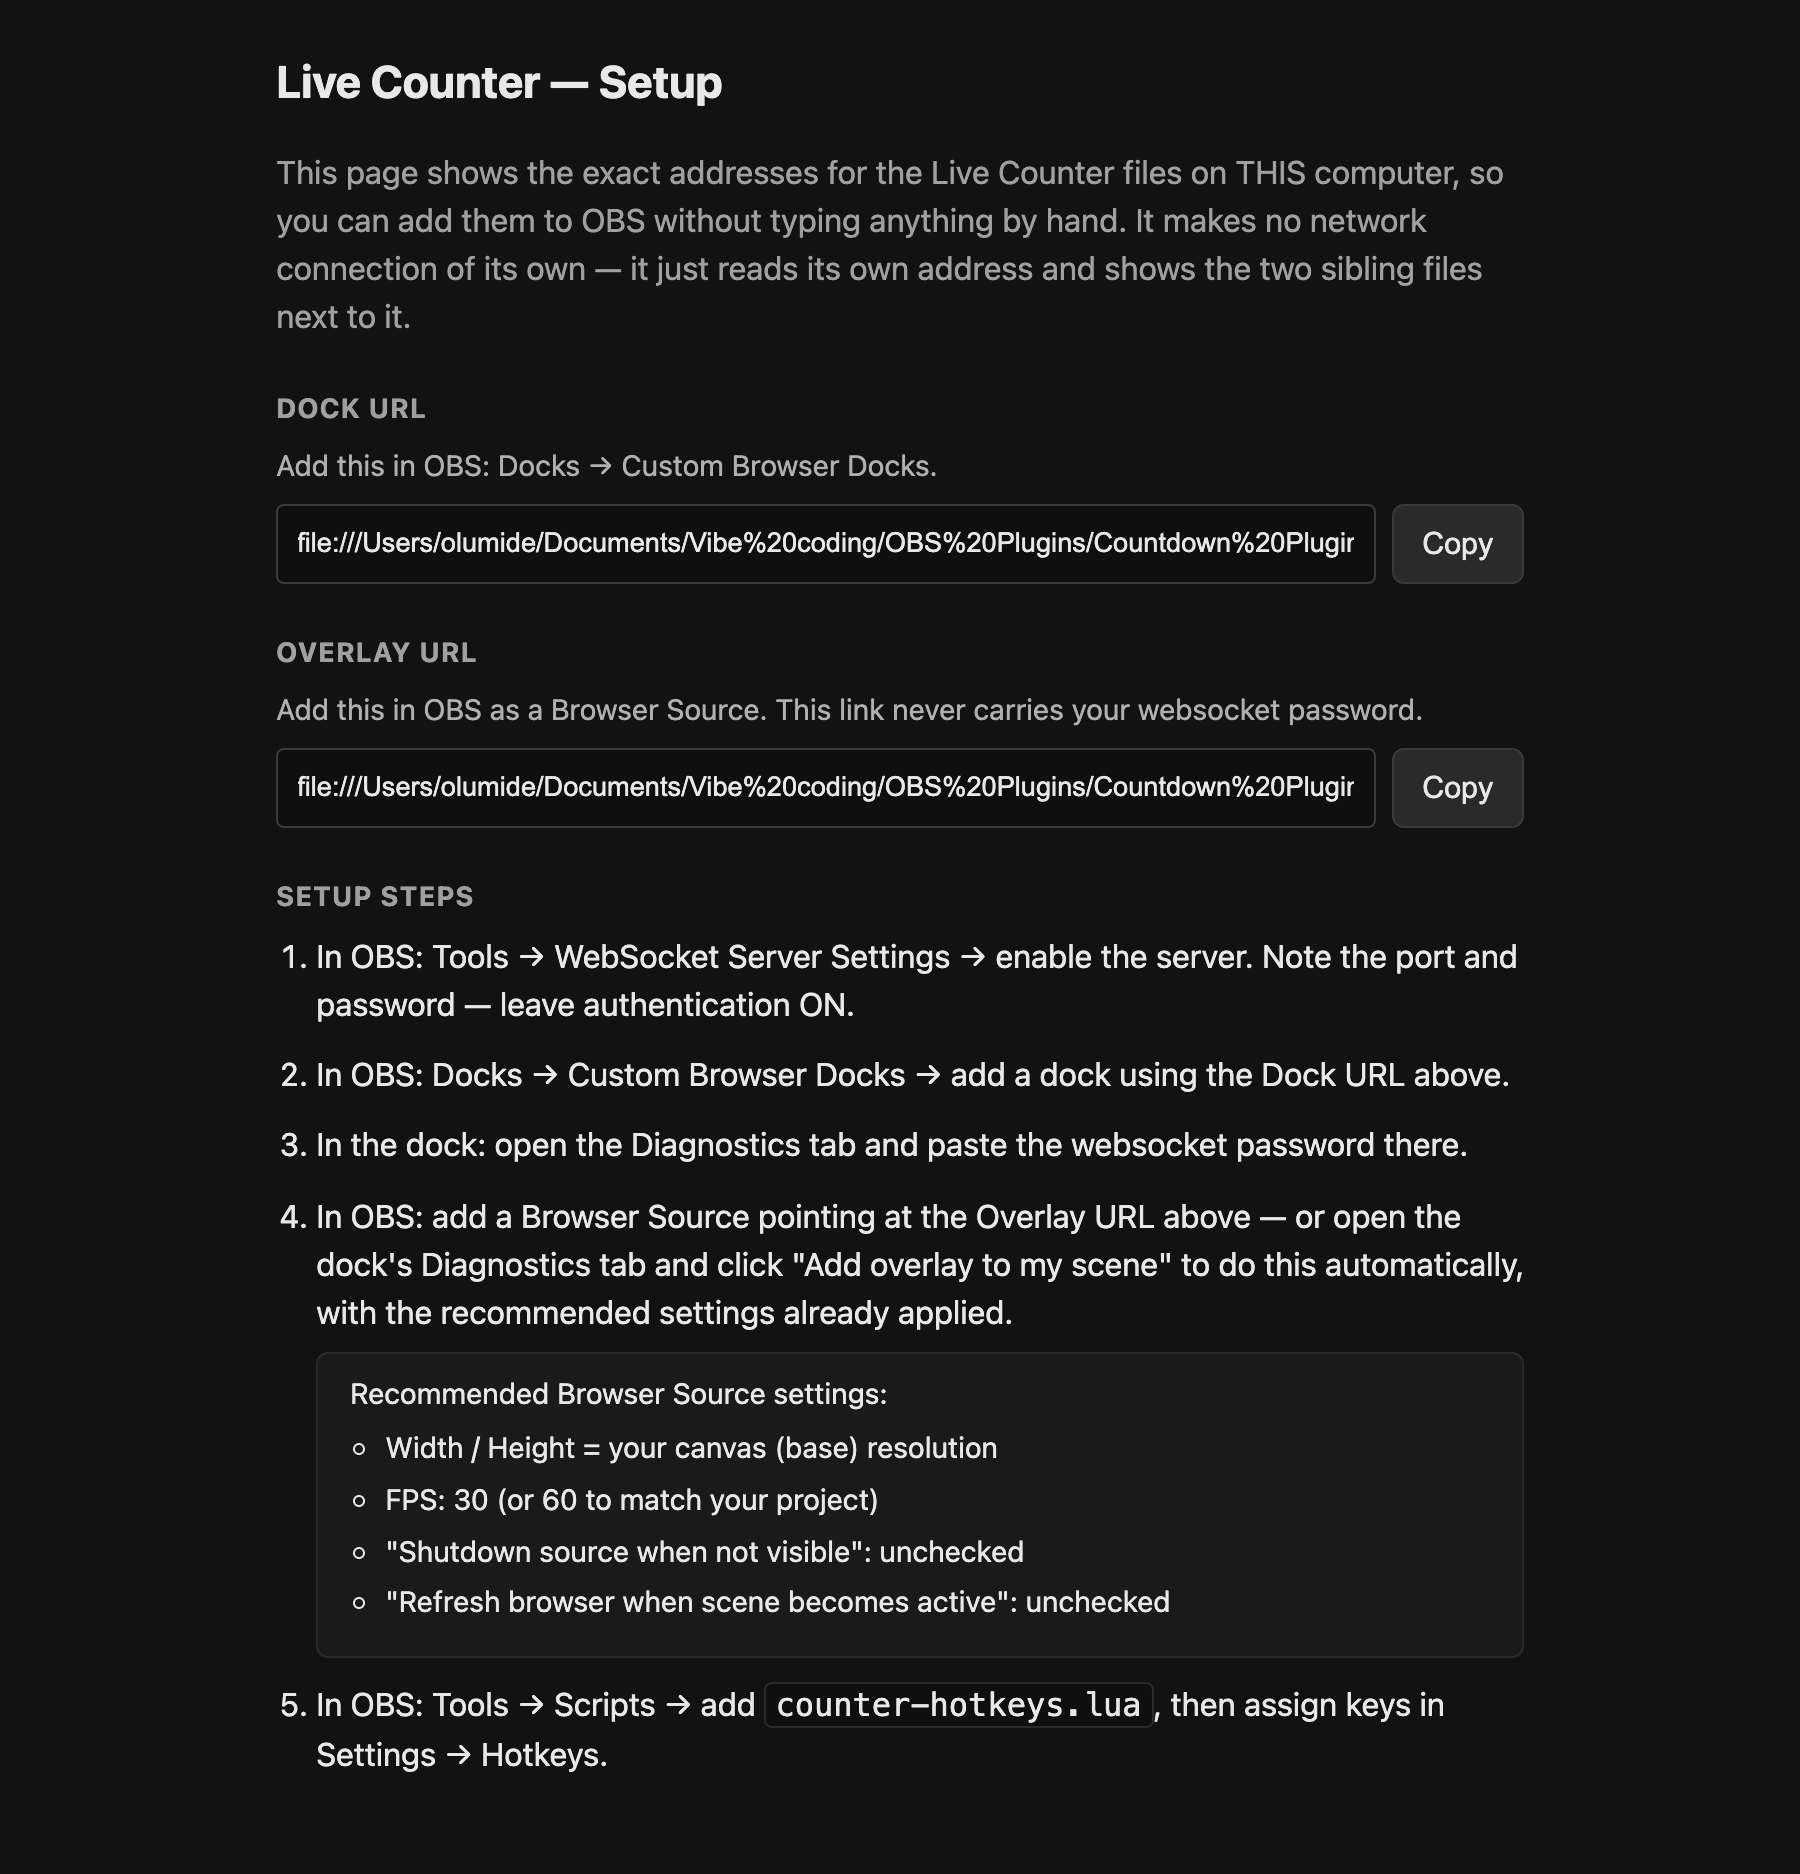
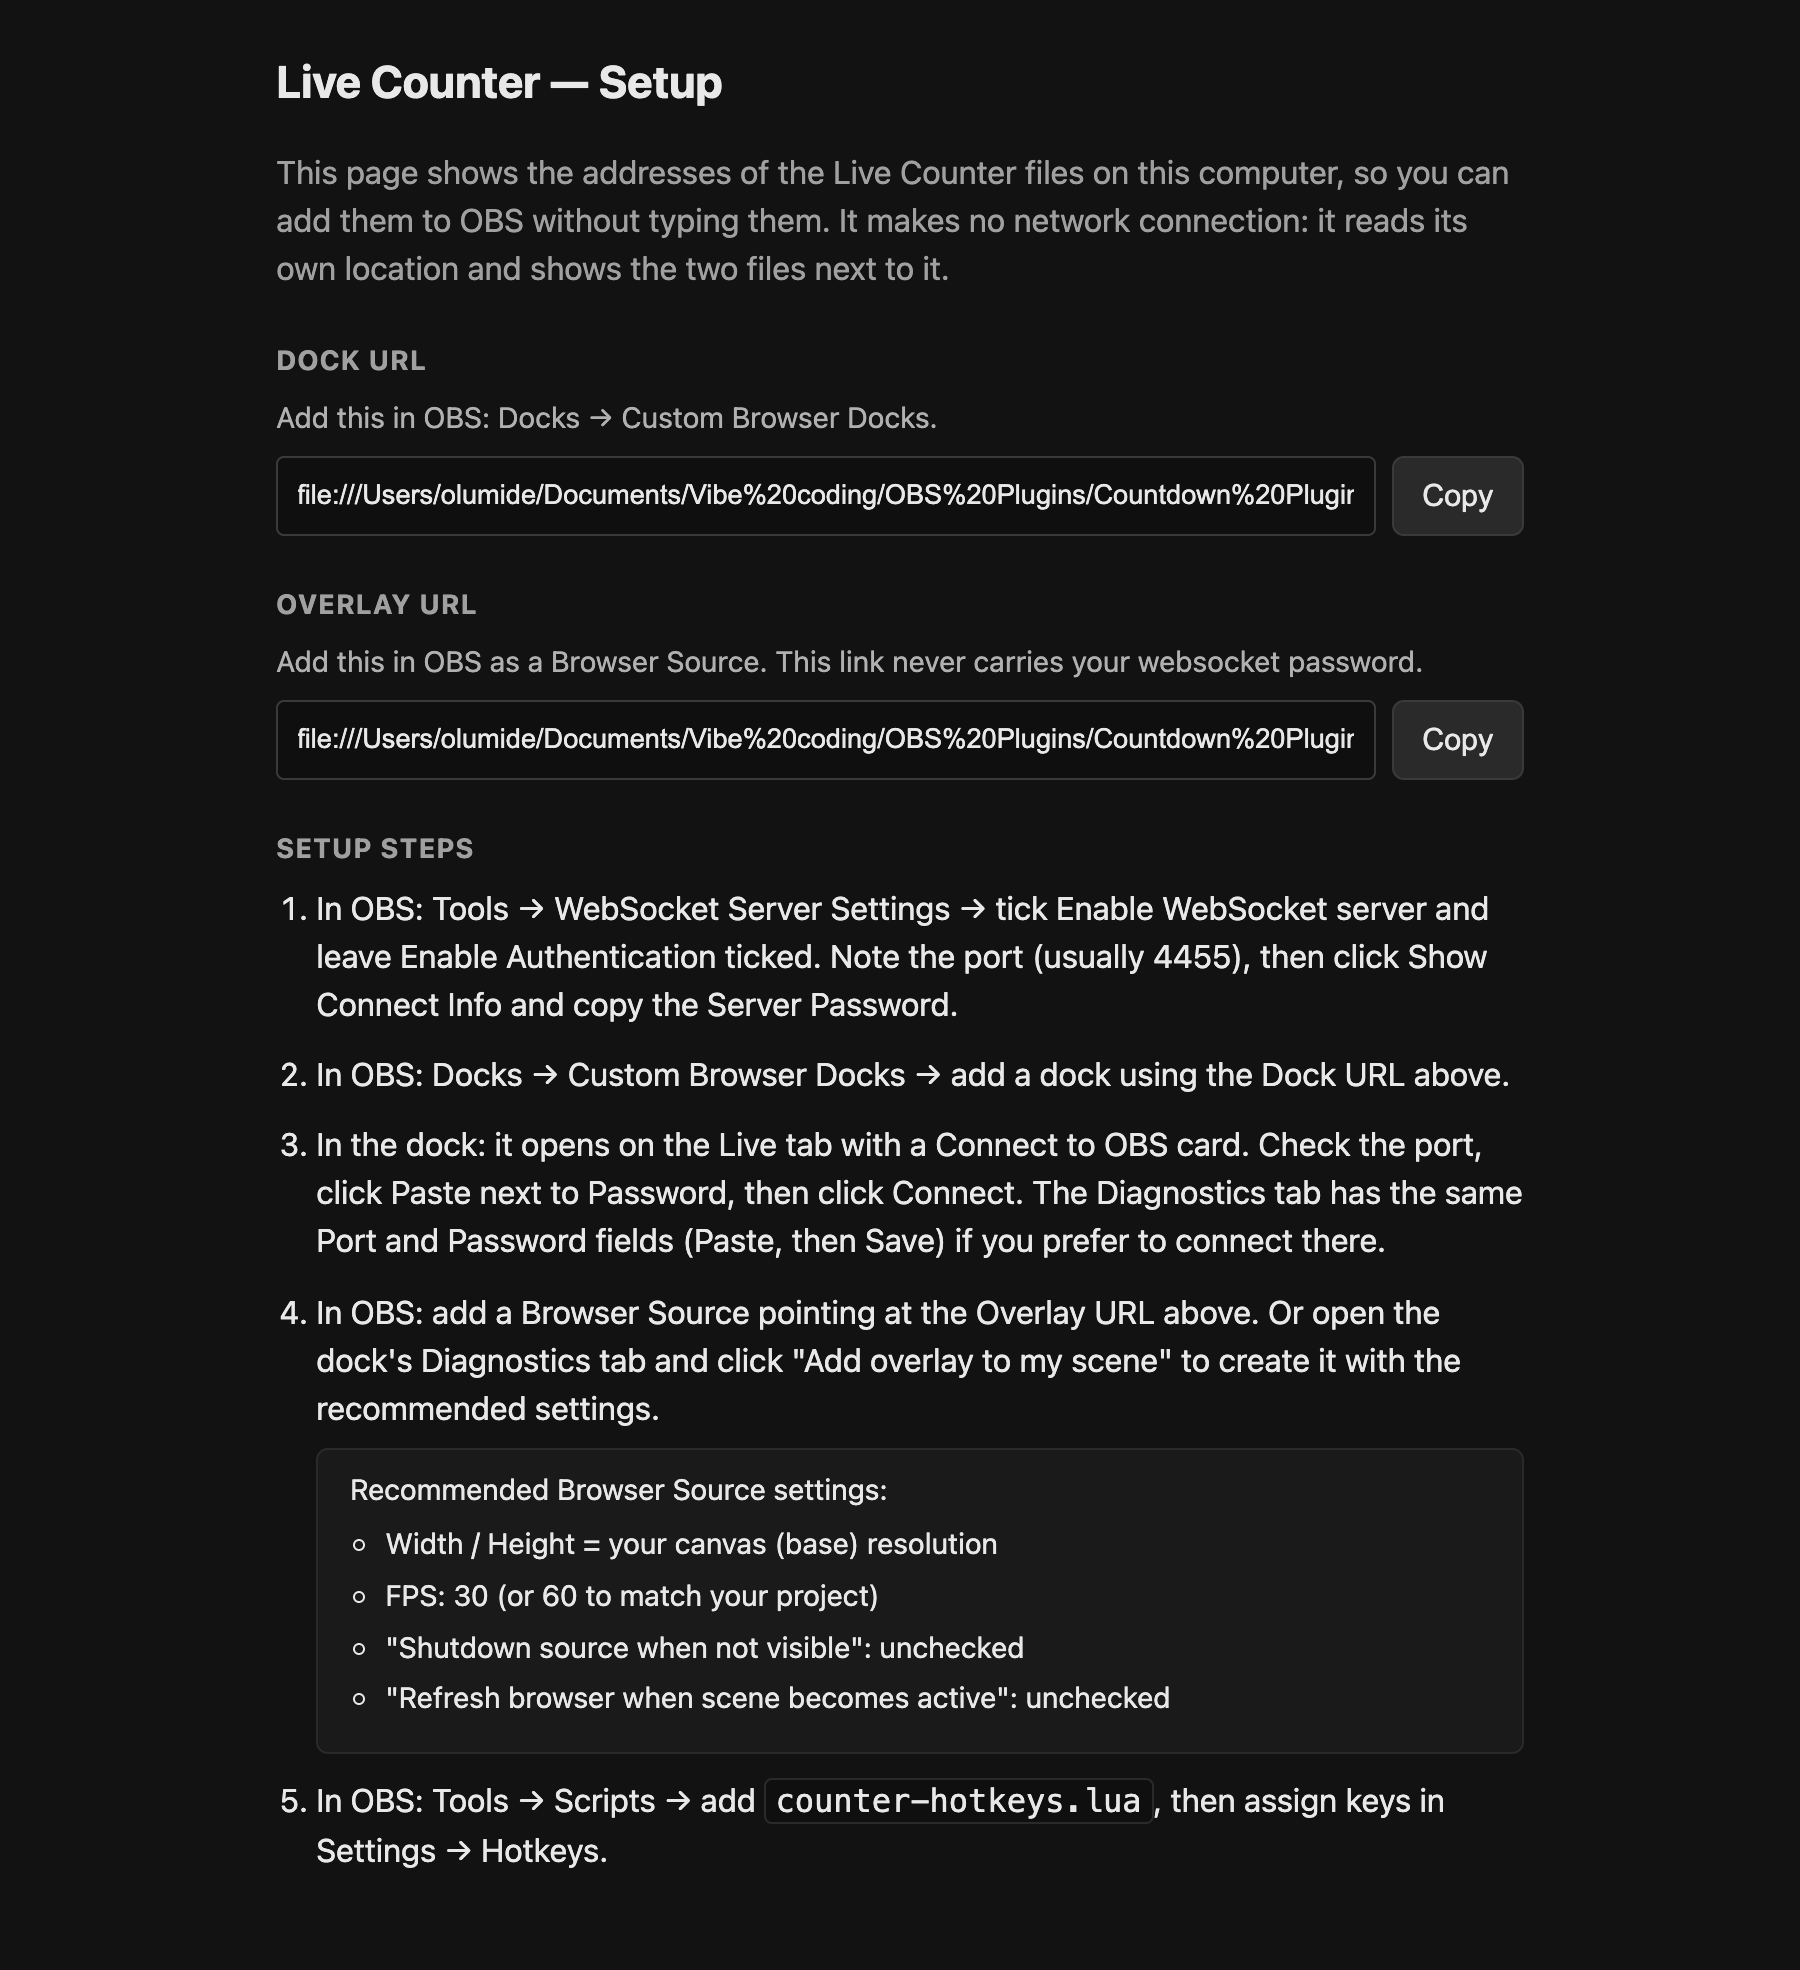
docs(guide): refresh panel screenshots after the fix wave; add reusable capture script
- docs/install-guide/img: dock/overlay/setup-page shots re-taken against
  the 0.3.0 build (mode toggle now 'Switch to Automatic', Transport text
  mentions keyboard shortcuts, Diagnostics shows Version 0.3.0); image
  width/height attributes updated to the real sizes.
- scripts/guide-shots/: Playwright spec + config that re-takes those shots
  against dist/ and the mock obs-websocket server (npm run shots:guide;
  PW_EXECUTABLE overrides the browser binary).

Changed region(s): [[0.1556, 0.0309, 0.84, 0.8666], [0.1556, 0.8975, 0.8089, 0.9594], [0.7778, 0.2476, 0.84, 0.3095]]

diff --git a/scripts/guide-shots/capture.spec.ts b/scripts/guide-shots/capture.spec.ts
@@ -1,0 +1,118 @@
+// Re-takes the plugin-side screenshots for docs/install-guide/img against the
+// built dist/ pages and the test-only mock obs-websocket server. The OBS
+// dialog screenshots in that folder are real captures and are not touched.
+//
+// Run after `npm run build`:
+//   npx playwright test -c scripts/guide-shots/playwright.config.ts
+import { test } from '@playwright/test';
+import { pathToFileURL, fileURLToPath } from 'node:url';
+import path from 'node:path';
+import { mkdirSync } from 'node:fs';
+import { startMockObs } from '../../tests/helpers/mock-obsws.js';
+
+const here = path.dirname(fileURLToPath(import.meta.url));
+const ROOT = path.resolve(here, '../..');
+const OUT = path.join(ROOT, 'docs/install-guide/img');
+const DOCK = pathToFileURL(path.join(ROOT, 'dist/dock.html')).href;
+const OVERLAY = pathToFileURL(path.join(ROOT, 'dist/overlay.html')).href;
+const SETUP = pathToFileURL(path.join(ROOT, 'dist/setup.html')).href;
+
+const DOCK_VIEWPORT = { width: 420, height: 840 };
+const CANVAS = { width: 1920, height: 1080 };
+
+test('capture guide screenshots', async ({ browser }) => {
+  mkdirSync(OUT, { recursive: true });
+
+  // setup.html in an ordinary browser window.
+  const setupCtx = await browser.newContext({ viewport: { width: 900, height: 760 }, deviceScaleFactor: 2, colorScheme: 'dark' });
+  const setupPage = await setupCtx.newPage();
+  await setupPage.goto(SETUP);
+  await setupPage.waitForTimeout(400);
+  await setupPage.screenshot({ path: path.join(OUT, 'plugin-setup-page.png'), fullPage: true });
+  await setupCtx.close();
+
+  const mock = await startMockObs({ programScene: 'Sunday Service', scenes: ['Sunday Service'] });
+  try {
+    const dockCtx = await browser.newContext({ viewport: DOCK_VIEWPORT, deviceScaleFactor: 2, colorScheme: 'dark' });
+    const dock = await dockCtx.newPage();
+    const overlayCtx = await browser.newContext({ viewport: CANVAS, deviceScaleFactor: 1, colorScheme: 'dark' });
+    const overlay = await overlayCtx.newPage();
+
+    await overlay.goto(`${OVERLAY}?port=${mock.port}`);
+    await dock.goto(`${DOCK}?wsPort=${mock.port}&devhook=1`);
+    await dock.waitForFunction(() => Boolean((window as unknown as { __lc?: unknown }).__lc));
+    await dock.waitForTimeout(1500);
+
+    // Diagnostics: every checklist row green (overlay page is connected, and a
+    // hotkey-bridge hello is injected), typical port shown, password filled.
+    mock.injectEvent('InputSettingsChanged', {
+      inputName: 'LiveCounterCommandChannel',
+      inputSettings: { text: JSON.stringify({ app: 'live-counter', v: 1, cmd: 'hello', nonce: 'shot-1' }) },
+    });
+    await dock.getByTestId('tab-diagnostics').click();
+    await dock.waitForTimeout(2500);
+    const password = dock.getByTestId('settings-password');
+    if (await password.count()) await password.fill('example-password');
+    const port = dock.getByTestId('settings-port');
+    if (await port.count()) await port.fill('4455');
+    await dock.screenshot({ path: path.join(OUT, 'dock-diagnostics-connected.png'), fullPage: true });
+
+    // "Add overlay to my scene" and its confirmation text.
+    const addOverlay = dock.getByTestId('add-overlay');
+    if (await addOverlay.count()) {
+      await addOverlay.click();
+      await dock.getByTestId('add-overlay-confirm').waitFor({ timeout: 8000 }).catch(() => {});
+      await dock.waitForTimeout(600);
+      await dock.screenshot({ path: path.join(OUT, 'dock-add-overlay-confirm.png'), fullPage: true });
+    }
+
+    // Setup tab with a preset title, then save it so Presets has a row.
+    await dock.getByTestId('tab-setup').click();
+    await dock.waitForTimeout(700);
+    const title = dock.getByTestId('setup-title');
+    if (await title.count()) await title.fill('Sunday service');
+    await dock.screenshot({ path: path.join(OUT, 'dock-setup-tab.png'), fullPage: true });
+    const save = dock.getByTestId('setup-save');
+    if (await save.count()) {
+      await save.click();
+      await dock.waitForTimeout(700);
+    }
+
+    await dock.getByTestId('tab-presets').click();
+    await dock.waitForTimeout(700);
+    await dock.screenshot({ path: path.join(OUT, 'dock-presets-tab.png'), fullPage: true });
+
+    // Live tab mid-count, overlay shown.
+    await dock.evaluate(() => {
+      const lc = (window as unknown as { __lc: { startSession: (cfg: Record<string, unknown>) => void } }).__lc;
+      lc.startSession({ startValue: 0, finishValue: 50, mode: 'manual' });
+    });
+    await dock.getByTestId('tab-live').click();
+    await dock.waitForTimeout(600);
+    for (let i = 0; i < 7; i++) await dock.getByTestId('btn-plus').click();
+    const showHide = dock.getByTestId('btn-show-hide');
+    if (((await showHide.textContent()) ?? '').includes('Show')) {
+      await showHide.click();
+      const proceed = dock.getByTestId('safety-proceed');
+      if (await proceed.count()) await proceed.click().catch(() => {});
+    }
+    await dock.waitForTimeout(1500);
+    await dock.screenshot({ path: path.join(OUT, 'dock-live-tab.png') });
+
+    // Overlay on a dark stage, cropped to the middle so the number reads large.
+    await overlay.addStyleTag({ content: 'html,body{background:#14161a !important}' });
+    await overlay.waitForTimeout(800);
+    await overlay.screenshot({
+      path: path.join(OUT, 'overlay-on-stage.png'),
+      clip: { x: 320, y: 180, width: 1280, height: 720 },
+    });
+
+    console.log('overlay shows:', await overlay.getByTestId('overlay-number').textContent().catch(() => '(none)'));
+    console.log('dock shows:', await dock.getByTestId('current-value').textContent().catch(() => '(none)'));
+
+    await dockCtx.close();
+    await overlayCtx.close();
+  } finally {
+    await mock.close();
+  }
+});

diff --git a/docs/install-guide/index.html b/docs/install-guide/index.html
@@ -372,7 +372,7 @@
         <p>The page shows two addresses with <b>Copy</b> buttons: the <b>Dock URL</b> for the control panel and the <b>Overlay URL</b> for the on-screen number. On Windows they start with <code>file:///C:/Users/</code>, on a Mac with <code>file:///Users/</code>. If Copy is blocked, the page highlights the address so you can copy it by hand.</p>
         <div class="figs">
           <figure class="shot shot--wide">
-            <a class="frame-img zoom" href="img/plugin-setup-page.png"><img src="img/plugin-setup-page.png" alt="Setup page with two addresses and Copy buttons." loading="lazy" width="1800" height="1874" /></a>
+            <a class="frame-img zoom" href="img/plugin-setup-page.png"><img src="img/plugin-setup-page.png" alt="Setup page with two addresses and Copy buttons." loading="lazy" width="1800" height="1970" /></a>
           </figure>
         </div>
       </section>
@@ -432,7 +432,7 @@
         <p><b>Add overlay to my scene</b>, the LIVE indicator (which shows when you are on air), keyboard shortcuts and the session backup inside OBS all need this connection. Without it, only counting works.</p>
         <div class="figs">
           <figure class="shot shot--dock">
-            <a class="frame-img zoom" href="img/dock-diagnostics-connected.png"><img src="img/dock-diagnostics-connected.png" alt="Diagnostics tab with green checklist rows and a password field." loading="lazy" width="840" height="2084" /></a>
+            <a class="frame-img zoom" href="img/dock-diagnostics-connected.png"><img src="img/dock-diagnostics-connected.png" alt="Diagnostics tab with green checklist rows and a password field." loading="lazy" width="840" height="2118" /></a>
           </figure>
         </div>
       </section>
@@ -449,7 +449,7 @@
         <p>This creates a Browser Source named <b>Live Counter Overlay</b> with the recommended settings, and the panel shows <b>Overlay added to</b> and your scene name. If an overlay already exists, the button reads <b>Add overlay to this scene</b> or <b>Fix overlay settings</b> instead.</p>
         <div class="figs">
           <figure class="shot shot--dock">
-            <a class="frame-img zoom" href="img/dock-add-overlay-confirm.png"><img src="img/dock-add-overlay-confirm.png" alt="Diagnostics tab showing an Overlay added to message." loading="lazy" width="840" height="2126" /></a>
+            <a class="frame-img zoom" href="img/dock-add-overlay-confirm.png"><img src="img/dock-add-overlay-confirm.png" alt="Diagnostics tab showing an Overlay added to message." loading="lazy" width="840" height="2160" /></a>
           </figure>
         </div>
 

diff --git a/scripts/guide-shots/playwright.config.ts b/scripts/guide-shots/playwright.config.ts
@@ -1,0 +1,28 @@
+// Playwright config for scripts/guide-shots/capture.spec.ts, which re-takes the
+// panel / overlay / setup-page screenshots used by docs/install-guide/.
+//
+//   npm run build
+//   npx playwright test -c scripts/guide-shots/playwright.config.ts
+//
+// Set PW_EXECUTABLE to a Chromium binary to bypass Playwright's own browser
+// download (useful when the cache holds a different build than this Playwright
+// version expects).
+import { defineConfig } from '@playwright/test';
+import { fileURLToPath } from 'node:url';
+import path from 'node:path';
+
+const here = path.dirname(fileURLToPath(import.meta.url));
+const executablePath = process.env.PW_EXECUTABLE;
+
+export default defineConfig({
+  testDir: here,
+  outputDir: path.resolve(here, '../../test-results/guide-shots'),
+  workers: 1,
+  timeout: 120_000,
+  reporter: 'list',
+  use: {
+    deviceScaleFactor: 2,
+    colorScheme: 'dark',
+    ...(executablePath ? { launchOptions: { executablePath } } : {}),
+  },
+});
